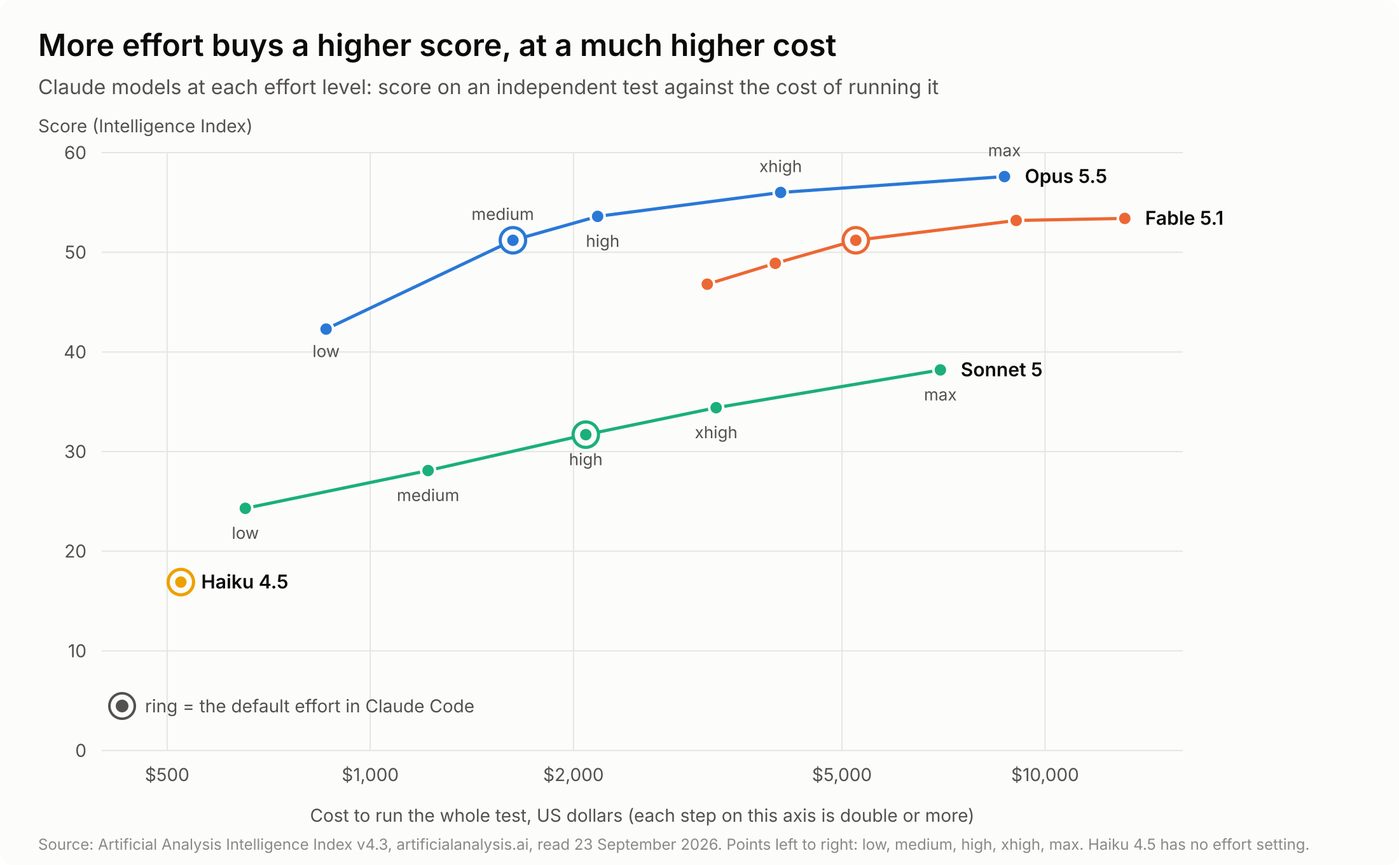
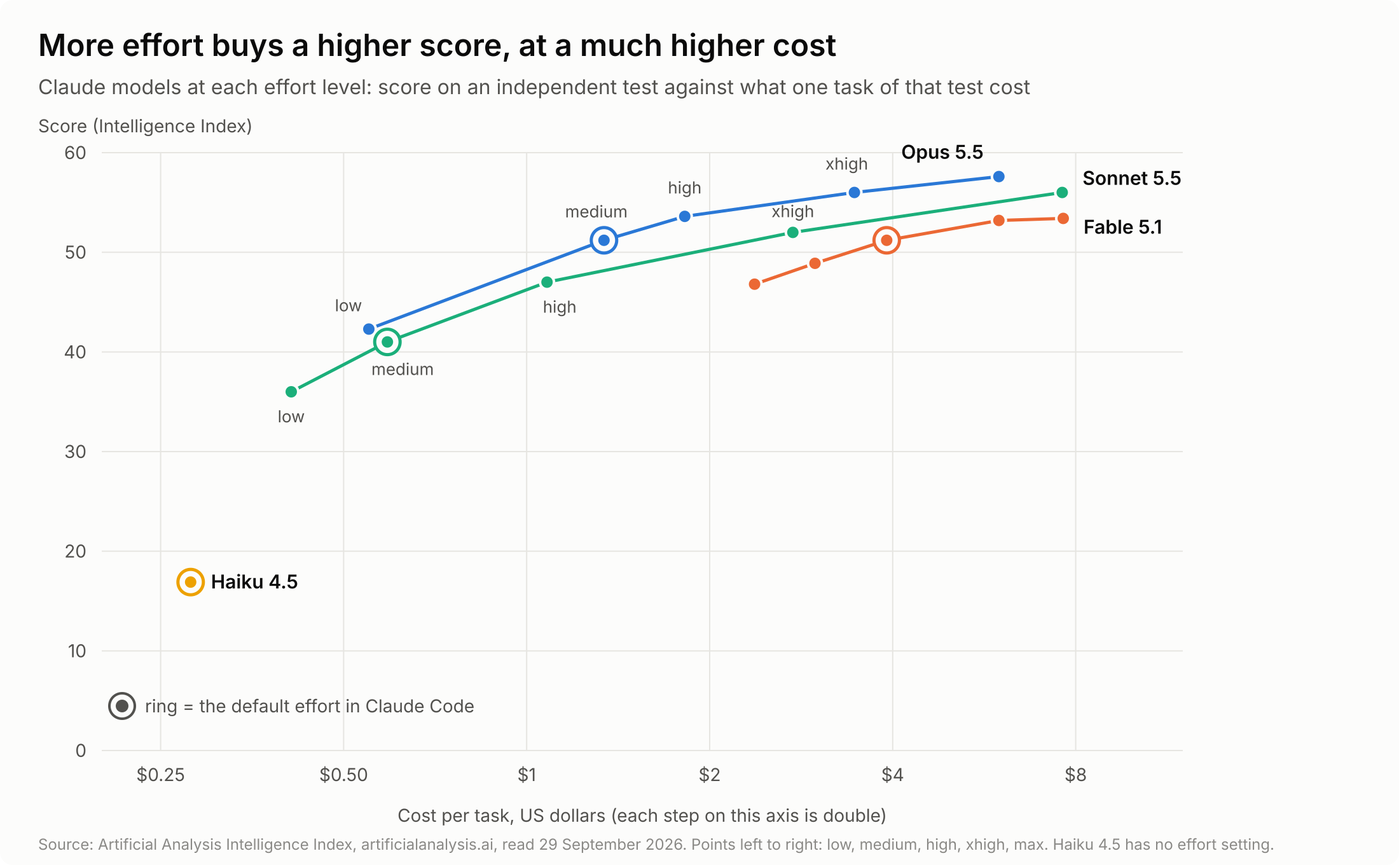
Wiki: Sonnet 5.5, cost-per-task charts, news dated lecture day
Sonnet 5.5 (28 Sep 2026) replaces Sonnet 5 in Claude model family,
Model, Effort and Benchmark. The effort table and both charts now use
Artificial Analysis cost per task. OpenAI row: GPT-6 Sol and Luna.
The news entry moves to 2026-09-29, the lecture 03 day, and leads with
the lecture. Rule: the news date is the lecture day.

Claude-Session: https://claude.ai/code/session_012w8N2fpaZJA1Vyv6PVjExa

diff --git a/wiki/concepts/Claude model family.md b/wiki/concepts/Claude model family.md
@@ -16,7 +16,7 @@ tags:
 
 Think of a consulting firm. The intern is quick and cheap and fine for routine work. The consultant handles most projects well. The senior partner takes the hard, long engagements. And there is one world expert the firm keeps on retainer for the problems nobody else can crack. Same firm, same way of working, very different depth, speed and price.
 
-Anthropic sells its [[Model|models]] in exactly those four tiers. Every tier reads text and images, writes text, and works as the brain of [[Claude Code]]. What changes is how deep it thinks, how fast it answers and what it costs. Facts below are as of 23 September 2026; names and prices move every few months, sources are at the bottom.
+Anthropic sells its [[Model|models]] in exactly those four tiers. Every tier reads text and images, writes text, and works as the brain of [[Claude Code]]. What changes is how deep it thinks, how fast it answers and what it costs. Facts below are as of 29 September 2026; names and prices move every few months, sources are at the bottom.
 
 ## The four tiers at a glance
 
@@ -24,7 +24,7 @@ Anthropic sells its [[Model|models]] in exactly those four tiers. Every tier rea
 | --- | --- | --- | --- | --- | --- |
 | **Claude Fable 5.1** | The most capable model you can get | Hours-long agent runs, deep research, analysis carried through to a finished document | Slowest | $10 / $50 | 1M tokens |
 | **Claude Opus 5.5** | The one to start with, and strong at hard work | Complex multi-step tasks, planning, large projects, anything with many files | Moderate | $4 / $20 | 1M tokens |
-| **Claude Sonnet 5** | Speed and intelligence in balance | Everyday work: drafting, summarising, data analysis, most agent tasks | Fast | $2 / $10 | 1M tokens |
+| **Claude Sonnet 5.5** | Speed and intelligence in balance | Everyday work: drafting, summarising, data analysis, most agent tasks | Fast | $2 / $10 | 1M tokens |
 | **Claude Haiku 4.5** | Fastest, near-frontier | Quick simple tasks, high volume, helper jobs inside bigger tasks | Fastest | $1 / $5 | 200K tokens |
 
 "Sees at once" is the [[Context window|context window]]. One million tokens is roughly 555,000 words, so the top three tiers can hold a shelf of documents in one conversation.
@@ -49,50 +49,57 @@ Two things are new. It is cheaper than Opus 5 was ($4 / $20 instead of $5 / $25)
 
 Not worth it for one-line questions or reformatting a table. Sonnet or Haiku do those as well and faster.
 
-### Claude Sonnet 5
+### Claude Sonnet 5.5
 
-"The best combination of speed and intelligence." Good for writing and editing, summarising documents, analysing a spreadsheet, running everyday agent tasks. It is fast, and half the price of Opus 5.5 per token. But the price per token is not the whole story: on the chart below, Opus 5.5 finishes the same test for about the same money, because it needs fewer tokens. Pick Sonnet when speed matters, or when you want to see if a lighter model is enough.
+Released on 28 September 2026, replacing Sonnet 5 (still available as an older model). Anthropic's line for it: "The best combination of speed and intelligence." And from the announcement: "a clear upgrade over Claude Sonnet 5, runs 30%+ faster, and costs up to 30% less for most work." Good for writing and editing, summarising documents, analysing a spreadsheet, running everyday agent tasks. Its default [[Effort|effort]] in Claude Code and the Claude apps is **medium**, like Opus 5.5.
+
+On most of Anthropic's own tests it comes close to Opus 5.5. On the independent test below, at the default effort, Opus 5.5 is 10 points higher (51 against 41) and costs about 2.3 times as much per task. Opus 5.5 reaches 56 at xhigh effort. Sonnet 5.5 reaches 56 only at max, and then costs more than twice as much per task. So: pick Sonnet 5.5 for everyday work, when speed matters, or to see if a lighter model is enough. For a hard task, on this test, moving up to Opus 5.5 was cheaper than turning Sonnet 5.5 up to max.
 
 ### Claude Haiku 4.5
 
-"The fastest model with near-frontier intelligence." Half the price of Sonnet and noticeably quicker, at the cost of some depth and a smaller context window. Good for short, clear tasks in bulk: classify these 500 emails, extract dates from these forms, answer a quick lookup. Claude Code also uses Haiku behind the scenes for helper jobs. You will rarely pick it by hand; in Claude Code you can with `/model haiku`.
+"The fastest model with near-frontier intelligence." Half the price of Sonnet 5.5 and noticeably quicker, at the cost of some depth and a smaller context window. Good for short, clear tasks in bulk: classify these 500 emails, extract dates from these forms, answer a quick lookup. Claude Code also uses Haiku behind the scenes for helper jobs. You will rarely pick it by hand; in Claude Code you can with `/model haiku`.
+
+A successor is coming: on 22 September Anthropic said "Claude Sonnet 5.5 and Claude Haiku 5.5 will follow in the coming weeks". Sonnet 5.5 has arrived; Haiku 5.5 is announced, not released yet. Anthropic lists Haiku 4.5 as retiring not sooner than 15 October 2026.
 
 ## Which one you get without choosing
 
 - **claude.ai and the desktop app**: every paid plan (Pro, Max, Team, Enterprise) can use Fable, Opus and Sonnet; pick in the model menu next to the prompt. Max does not unlock extra models, it buys more usage.
-- **Claude Code**: starts with Opus 5.5 at medium effort on Pro, Max, Team and Enterprise. Type the [[Slash command|slash command]] `/model` to see the picker, or `/model opus`, `/model sonnet`, `/model haiku`, `/model fable` to switch. `/model opusplan` uses Opus to plan and Sonnet to execute, a sensible money-saver.
+- **Claude Code**: starts with Opus 5.5 at medium effort on Pro, Max, Team and Enterprise. Type the [[Slash command|slash command]] `/model` to see the picker, or `/model opus`, `/model sonnet`, `/model haiku`, `/model fable` to switch. `/model sonnet` gives you Sonnet 5.5. `/model opusplan` uses Opus 5.5 to plan and Sonnet 5.5 to do the work, a sensible money-saver. The default stays Opus 5.5.
 - **Subscriptions do not bill per token.** The prices above matter if you pay for the [[API]] directly. On a subscription they still matter indirectly: a bigger model uses up your usage allowance faster.
 
 ## The second dial: effort
 
-Since 2026 the bigger models have an **[[Effort|effort]]** setting (low, medium, high, xhigh, max) that controls how long they think before answering. Anthropic's own advice: "tuning effort is often a better lever than switching models". In Claude Code, `/effort` opens a slider. Low for quick chores, the default for normal work (medium on Opus 5.5, high on the others), xhigh or max when the task is genuinely hard and you can wait.
+Since 2026 the bigger models have an **[[Effort|effort]]** setting (low, medium, high, xhigh, max) that controls how long they think before answering. Anthropic's own advice: "tuning effort is often a better lever than switching models". In Claude Code, `/effort` opens a slider. Low for quick chores, the default for normal work (medium on Opus 5.5 and Sonnet 5.5, high on Fable 5.1), xhigh or max when the task is genuinely hard and you can wait.
 
 ## Effort, price and score together
 
 Tier and effort are two dials, and each turn costs money. An independent [[Benchmark|benchmark]] shows what you get for it:
 
 ![[effort-score-cost-claude-2026-09.png]]
-*Score against cost for each Claude model and effort level. Chart: petr-ai-school, from Artificial Analysis data, 23 September 2026.*
+*Score against cost per task for each Claude model and effort level. Chart: petr-ai-school, from Artificial Analysis data, 29 September 2026.*
 
 And the price per token, the number on the price list, does not tell you the price of a job:
 
 ![[price-vs-task-cost-claude-2026-09.png]]
-*Left: list price. Right: what the same test cost at each model's default effort. Chart: petr-ai-school, from Anthropic and Artificial Analysis data, 23 September 2026.*
+*Left: list price. Right: what one task of the test cost when both models reach the same score (56). Chart: petr-ai-school, from Anthropic and Artificial Analysis data, 29 September 2026.*
+
+"Cost per task" is what one task of the test cost on average, in US dollars.
 
 | Model | low | medium | high | xhigh | max |
 | --- | --- | --- | --- | --- | --- |
-| Opus 5.5 | 42 / $860 | **51 / $1,627** | 54 / $2,172 | 56 / $4,057 | 58 / $8,708 |
-| Fable 5.1 | 47 / $3,158 | 49 / $3,983 | **51 / $5,242** | 53 / $9,063 | 53 / $13,129 |
-| Sonnet 5 | 24 / $653 | 28 / $1,218 | **32 / $2,086** | 34 / $3,255 | 38 / $6,998 |
-| Haiku 4.5 | **17 / $524** (no effort setting) | | | | |
+| Opus 5.5 | 42 / $0.55 | **51 / $1.34** | 54 / $1.82 | 56 / $3.46 | 58 / $5.98 |
+| Fable 5.1 | 47 / $2.37 | 49 / $2.98 | **51 / $3.91** | 53 / $5.98 | 53 / $7.63 |
+| Sonnet 5.5 | 36 / $0.41 | **41 / $0.59** | 47 / $1.08 | 52 / $2.74 | 56 / $7.60 |
+| Sonnet 5 (older) | 24 / $0.51 | 28 / $1.00 | **32 / $1.79** | 34 / $2.87 | 38 / $5.09 |
+| Haiku 4.5 | **17 / $0.28** (no effort setting) | | | | |
 
-*Score on the Artificial Analysis Intelligence Index / cost to run the whole test. Bold: the default in Claude Code.*
+*Score on the Artificial Analysis Intelligence Index / cost per task in US dollars, read 29 September 2026. Bold: the default in Claude Code.*
 
 Three things to take from it:
 
-- **Stay at the default** for normal work. On this chart, the default sits about where the line starts to flatten.
+- **Stay at the default** for normal work. For Opus 5.5 and Fable 5.1 the default sits about where the line starts to flatten.
 - **One or two steps up** when a task is hard. Max costs a lot more and buys little.
-- **Judge a model by the cost of the job, not the price per token.** A model that needs fewer tokens can be cheaper per job even when its price list says otherwise.
+- **Judge a model by the cost of the job, not the price per token.** Sonnet 5.5 is half the price of Opus 5.5 per token. But to reach 56 it needs max effort and costs $7.60 a task, while Opus 5.5 gets there at xhigh for $3.46.
 
 ## The same roles at other labs
 
@@ -101,19 +108,19 @@ Every lab sells the same ladder under different names. Same role does not mean i
 | Role | Anthropic | OpenAI | Google |
 | --- | --- | --- | --- |
 | Top model, restricted variant exists | Fable 5.1 ($10 / $50); Mythos 5.1 for vetted organisations | GPT-6 Astra (about $10 / $50); enterprise access first, off by default in many workspaces | Gemini 3 Deep Think (a slow "think longer" mode on the top plan) |
-| Flagship for hard work | Opus 5.5 ($4 / $20) | GPT-5.6 Sol (about $5 / $30) | Gemini 3.1 Pro ($2 / $12) |
-| Balanced everyday default | Sonnet 5 ($2 / $10) | GPT-5.6 Terra (about $2 / $12) | Gemini 3.8 Flash ($0.75 / $3.75 until end of 2026, then $1.50 / $7.50) |
-| Fast and cheap | Haiku 4.5 ($1 / $5) | GPT-5.6 Luna (about $0.20 / $1.20) | Gemini 3.5 Flash-Lite ($0.30 / $2.50) |
+| Flagship for hard work | Opus 5.5 ($4 / $20) | GPT-6 Sol (about $2 / $10), released 22 September 2026 | Gemini 3.1 Pro ($2 / $12) |
+| Balanced everyday default | Sonnet 5.5 ($2 / $10) | GPT-6 Sol covers this tier too; there is no GPT-6 Terra yet | Gemini 3.8 Flash ($0.75 / $3.75 until end of 2026, then $1.50 / $7.50) |
+| Fast and cheap | Haiku 4.5 ($1 / $5) | GPT-6 Luna (about $0.10 / $0.50) | Gemini 3.5 Flash-Lite ($0.30 / $2.50) |
 
 Three things to notice:
 
-- **OpenAI's naming flipped in 2026.** The number is the generation (5.6), the name is the tier (Sol, Terra, Luna). Same idea as Fable, Opus, Sonnet, Haiku.
+- **OpenAI's naming flipped in 2026.** The number is the generation (6), the name is the tier (Astra, Sol, Luna). Same idea as Fable, Opus, Sonnet, Haiku. OpenAI's prices here come from news reports, so they are marked "about".
 - **Google's Flash is not the small model.** Gemini 3.8 Flash is Google's recommended default and beats many larger models; Flash-Lite is the cheap one. Google is also the price leader.
 - **The top tier is gated everywhere.** Mythos and GPT-6 Astra both exist as "the same model with fewer safety limits" for approved organisations. What you and I can use is the filtered public version, and that is plenty.
 
 ## Rules of thumb
 
-1. Start with what your tool gives you by default. In Claude Code that is Opus 5.5 at medium effort, a good choice. Elsewhere it is usually the balanced tier (Terra, Flash). Move up when the result disappoints, not before.
+1. Start with what your tool gives you by default. In Claude Code that is Opus 5.5 at medium effort, a good choice. Elsewhere it is usually the balanced tier (Sol, Flash). Move up when the result disappoints, not before.
 2. Hard or long task, many files, decisions that cost money if wrong: go to the flagship (Opus, Sol, Pro).
 3. Something must be researched or produced end to end without you watching: Fable, and give it time.
 4. Hundreds of small identical jobs: the fast tier (Haiku, Luna, Flash-Lite).
@@ -124,10 +131,10 @@ Three things to notice:
 
 ## Sources
 
-- Anthropic: [Models overview](https://platform.claude.com/docs/en/models/overview), [Choosing the right model](https://platform.claude.com/docs/en/about-claude/models/choosing-a-model), [Claude Fable](https://www.anthropic.com/claude/fable), [Claude Code model configuration](https://code.claude.com/docs/en/model-config)
+- Anthropic: [Models overview](https://platform.claude.com/docs/en/models/overview), [Claude Sonnet 5.5](https://www.anthropic.com/claude-sonnet-5-5), [Choosing the right model](https://platform.claude.com/docs/en/about-claude/models/choosing-a-model), [Claude Fable](https://www.anthropic.com/claude/fable), [Claude Code model configuration](https://code.claude.com/docs/en/model-config)
 - Google: [Gemini models](https://ai.google.dev/gemini-api/docs/models), [Gemini API pricing](https://ai.google.dev/gemini-api/docs/pricing)
-- OpenAI: [GPT-5.6 Sol preview](https://openai.com/index/previewing-gpt-5-6-sol/), [API pricing](https://openai.com/api/pricing/); tier prices above via [DataCamp](https://www.datacamp.com/blog/gpt-5-6-sol-luna-terra) and [Vellum](https://www.vellum.ai/blog/gpt-5-6-sol-terra-luna-explained) after the July 2026 price cut
-- Independent ranking and cost per effort level: [Artificial Analysis Intelligence Index](https://artificialanalysis.ai/), read 23 September 2026
+- OpenAI: [GPT-6 Sol and GPT-6 Luna announcement](https://community.openai.com/t/announcing-gpt-6-sol-and-gpt-6-luna/1399925) (22 September 2026), [API pricing](https://openai.com/api/pricing/); the prices above via VentureBeat, a news site, because OpenAI's own page could not be read
+- Independent ranking and cost per task for each effort level: [Artificial Analysis Intelligence Index](https://artificialanalysis.ai/), read 29 September 2026
 
 ## Related
 

diff --git a/wiki/news.md b/wiki/news.md
@@ -12,32 +12,11 @@ tags:
 This wiki grows every week. So that you do not have to go looking, everything new is listed here, newest first. Read the top entry, follow the links in it, and you are up to date.
 
 > [!tip] Linking to one week
-> Every entry has its own address, made from its date. The one below is at `/news#2026-09-28`. That is the link in the weekly email, so you can go straight to the week you missed.
+> Every entry has its own address, made from its date. The one below is at `/news#2026-09-29`. That is the link in the weekly email, so you can go straight to the week you missed.
 
-## 2026-09-28
+## 2026-09-29
 
-**Reading the screen, working safely, and a new Opus.**
-
-- [[Working safely]] - the dos and don'ts: work on a copy, plan first, or say "do not change anything yet, just talk about it". Also what Esc Esc can and cannot undo. Read it before the homework: Esc Esc cannot undo moving files into folders.
-- [[Reading the Claude Code screen]] - the screen looks like programmer text, but you only need the plain sentences. Which lines to read, and when to press Esc.
-- [[Agent loop]] - gather context, take action, check the result, repeat. The diagram from the lecture, and where you fit in.
-- [[Compaction]] - what happens when a session gets too long, and why in normal work you should never get there.
-- [[Benchmark]] - how AI models are tested, the sites that show who leads right now, and how not to be fooled by a chart.
-
-**Changed:** Anthropic released Opus 5.5 on 22 September. It is now the model Claude Code starts with, at medium effort, and it is cheaper than Opus 5. [[Claude model family]] and [[Effort]] have the new facts and a chart of effort against cost against score. [[Chat Work and Code|Chat, Work and Code]] now says where Cowork runs: in Anthropic's cloud by default. [[Context window]] had one thing slightly wrong: when it is full, Claude Code does not simply drop old content. It clears old tool results and then summarises.
-
-**Coming next: connecting your systems, then making tasks repeat.**
-
-- [[Roadmap]] - weeks 03 and 04 are now fixed. Week 03 is about reaching the systems you use at work: connectors, command-line programs and APIs, and when to use which. Week 04 turns a task you do every week into one that repeats, and shows why a skill alone is not automation. The other topics are all still coming, in an order we will pick as we go.
-- Week 05 is now on the [[Roadmap]] too: running several agents at once. Instead of waiting for one agent, you hand out the work, let helpers do the side jobs, and check what comes back.
-
-**Ready for week 03: the ways into your systems.**
-
-- [[Connect Google Workspace]] - Gmail, Drive and Calendar two ways: the connector you switch on, and the `gws` command-line tool. Six Gmail jobs show where the connector stops: saving attachments into a folder, sending a file, changing 2,000 emails at once, setting your out-of-office.
-- [[Command-line program|Command-line tool]] - a program you run by typing one line instead of clicking. Claude reads its built-in manual and types the command for you.
-- [[API]] - a web address for programs, and why an API key is a password.
-
-**Lecture 03: Gearing up.**
+**Lecture 03: Gearing up, and a new Sonnet.**
 
 - [[03-gearing-up|Lecture 03: Gearing up]] - the slides, what we covered, your turn and the homework. What a tool is, and every way to give Claude more.
 - [[Tool]] - rewritten. A tool is a button the harness gives the model. How one tool call works, step by step, and the names you see on the ⏺ lines.
@@ -52,9 +31,30 @@ This wiki grows every week. So that you do not have to go looking, everything ne
 
 **Also, for lecture 03:** the Command-line tool page is now called [[Command-line program]], because in this course a tool is a button the harness gives the model, and a program is something Claude runs with one of those buttons. It also lists a few little programs that do big jobs. [[Working safely]] has a new part on connecting things: keys, who made a connector, and emails that contain orders for Claude. [[Reading the Claude Code screen]] and the [[Claude Code cheat sheet]] list the tool names on the ⏺ lines, including `PowerShell` on Windows. [[Connect Google Workspace]] now says why `gws` works only in Code. [[Sandbox]] now explains how a sandbox works inside. [[Chat Work and Code|Chat, Work and Code]] notes that Chat and Cowork are becoming one Claude.
 
+**From lecture 02: reading the screen and working safely.**
+
+- [[Working safely]] - the dos and don'ts: work on a copy, plan first, or say "do not change anything yet, just talk about it". Also what Esc Esc can and cannot undo. Read it before the homework: Esc Esc cannot undo moving files into folders.
+- [[Reading the Claude Code screen]] - the screen looks like programmer text, but you only need the plain sentences. Which lines to read, and when to press Esc.
+- [[Agent loop]] - gather context, take action, check the result, repeat. The diagram from the lecture, and where you fit in.
+- [[Compaction]] - what happens when a session gets too long, and why in normal work you should never get there.
+- [[Benchmark]] - how AI models are tested, the sites that show who leads right now, and how not to be fooled by a chart.
+
+**Changed:** Anthropic released Sonnet 5.5 on 28 September. It costs the same per token as Sonnet 5, is faster, and comes close to Opus 5.5 on most tests. `/model sonnet` now picks it. Before that, Anthropic released Opus 5.5 on 22 September. It is now the model Claude Code starts with, at medium effort, and it is cheaper than Opus 5. [[Claude model family]] and [[Effort]] have the new facts, and the charts now show what one task costs at each effort level. [[Chat Work and Code|Chat, Work and Code]] now says where Cowork runs: in Anthropic's cloud by default. [[Context window]] had one thing slightly wrong: when it is full, Claude Code does not simply drop old content. It clears old tool results and then summarises.
+
+**Coming next: connecting your systems, then making tasks repeat.**
+
+- [[Roadmap]] - weeks 03 and 04 are now fixed. Week 03 is about reaching the systems you use at work: connectors, command-line programs and APIs, and when to use which. Week 04 turns a task you do every week into one that repeats, and shows why a skill alone is not automation. The other topics are all still coming, in an order we will pick as we go.
+- Week 05 is now on the [[Roadmap]] too: running several agents at once. Instead of waiting for one agent, you hand out the work, let helpers do the side jobs, and check what comes back.
+
+**Ready for week 03: the ways into your systems.**
+
+- [[Connect Google Workspace]] - Gmail, Drive and Calendar two ways: the connector you switch on, and the `gws` command-line program. Six Gmail jobs show where the connector stops: saving attachments into a folder, sending a file, changing 2,000 emails at once, setting your out-of-office.
+- [[Command-line program]] - a program you run by typing one line instead of clicking. Claude reads its built-in manual and types the command for you.
+- [[API]] - a web address for programs, and why an API key is a password.
+
 **Also:** [[Connector]] had two things out of date. Claude Code does not describe every connected tool to the model in full at the start. It sees only the names and looks up the rest when needed. What still fills your context is what a connector sends back. And not every web connector is Anthropic's own: the Gmail, Calendar and Drive ones are made by Google.
 
-Before the homework, read [[Working safely]]. If you wonder which model to use, look at the chart on [[Effort]]. For week 03, start with [[Connect Google Workspace]]. After lecture 03, read [[Tool]] and [[Chat Work and Code|Chat, Work and Code]] first.
+Start with the [[03-gearing-up|lecture 03 page]], then read [[Tool]] and [[Chat Work and Code|Chat, Work and Code]]. Before the homework, read [[Working safely]]. If you wonder which model to use, look at the chart on [[Effort]].
 
 ## 2026-09-21
 

diff --git a/wiki/concepts/Effort.md b/wiki/concepts/Effort.md
@@ -25,11 +25,11 @@ Thinking costs [[Token|tokens]], so higher effort uses more of your [[Usage limi
 An independent [[Benchmark|benchmark]] shows it well. Each line is one model, each point one effort level, from low on the left to max on the right:
 
 ![[effort-score-cost-claude-2026-09.png]]
-*Score against cost for each Claude model and effort level. Chart: petr-ai-school, from Artificial Analysis data, 23 September 2026.*
+*Score against cost per task for each Claude model and effort level. Chart: petr-ai-school, from Artificial Analysis data, 29 September 2026.*
 
-- **Each step up costs more, up to about twice as much as the step before.** On Opus 5.5, max costs more than five times what medium costs.
-- **The score rises less and less.** From low to medium is a big jump. From xhigh to max is a small one, and on some tests max is even a little worse than xhigh.
-- **A better model at lower effort often beats a weaker model at max.** Opus 5.5 at low effort scores higher than Sonnet 5 at max, for about an eighth of the cost.
+- **Each step up costs more, often about twice as much as the step before.** On Opus 5.5, one task at max costs more than four times what it costs at medium.
+- **The score rises less and less.** On Opus 5.5, from low to medium is a big jump and from xhigh to max a small one. Fable 5.1 hardly gains anything from xhigh to max, and on some tests max is even a little worse than xhigh.
+- **A stronger model at lower effort often matches a lighter model at max, for less.** Opus 5.5 at xhigh scores the same as Sonnet 5.5 at max (56), for less than half the cost per task.
 
 So: stay at the default, go one or two steps up when a task is hard, and use max only when being right matters more than time and allowance.
 

diff --git a/wiki/concepts/Benchmark.md b/wiki/concepts/Benchmark.md
@@ -37,13 +37,13 @@ The [[Model#Who makes them|snapshot on the Model page]] is one of these charts, 
 A benchmark gets really useful when it shows score and cost for each [[Effort|effort]] level. Here is the independent Artificial Analysis test for the current [[Claude model family|Claude models]]:
 
 ![[effort-score-cost-claude-2026-09.png]]
-*Score against cost for each Claude model and effort level. Chart: petr-ai-school, from Artificial Analysis data, 23 September 2026.*
+*Score against cost per task for each Claude model and effort level. Chart: petr-ai-school, from Artificial Analysis data, 29 September 2026.*
 
 What you can read from it:
 
-- **More effort, more score, much more cost.** Opus 5.5 from medium to max: the score goes from 51 to 58, the cost goes up more than five times.
+- **More effort, more score, much more cost.** Opus 5.5 from medium to max: the score goes from 51 to 58, the cost per task goes up more than four times.
 - **The first steps pay, the last ones rarely do.** From low to medium is a big jump. From xhigh to max is small and expensive.
-- **The biggest model is not always the best one.** Opus 5.5 at medium effort scores the same as the bigger Fable 5.1 at high, for less than a third of the cost. At max effort Opus 5.5 is ahead. Only a benchmark shows you that.
+- **The biggest model is not always the best one.** Opus 5.5 at medium effort scores the same as the bigger Fable 5.1 at high, for about a third of the cost. At max effort Opus 5.5 is ahead. Only a benchmark shows you that.
 
 Here is a similar chart from a vendor. Anthropic published this one for Opus 5 in July 2026, on the DeepSWE coding test:
 

diff --git a/.claude/rules/wiki.md b/.claude/rules/wiki.md
@@ -46,6 +46,7 @@ Keep blank lines around raw HTML blocks. After adding a new deck, restart `npm r
 `wiki/news.md` is the changelog students read. One entry per week that something shipped, newest first, directly under the intro.
 
 - The heading is the bare ISO date, `## 2026-09-21`, and nothing else. That keeps the anchor predictable (`/news#2026-09-21`) so the weekly reminder email can link straight to it. The headline goes on the next line in bold.
+- The date is the day of that week's lecture: Petr sends the news email on lecture day, with the new lecture in it. Work shipped earlier in the week goes into the upcoming lecture's entry, and the entry's date moves to the lecture day if it was started earlier.
 - Then bullets, one per new or substantially changed page, each a wikilink plus one line on why a student would care. Group small edits into a closing "Also:" paragraph.
 - Close the entry with a sentence naming the one or two pages to read first.
 - Never rewrite a published entry; past weeks are a record of what students were told.

diff --git a/wiki/concepts/Model.md b/wiki/concepts/Model.md
@@ -21,7 +21,7 @@ A handful of labs build the **frontier** models, the most capable ones at any mo
 
 | Lab | Model family | Note |
 | --- | --- | --- |
-| Anthropic | Claude (Fable 5.1, Opus 5.5, Sonnet 5, Haiku 4.5) | What we use in this course |
+| Anthropic | Claude (Fable 5.1, Opus 5.5, Sonnet 5.5, Haiku 4.5) | What we use in this course |
 | OpenAI | GPT (GPT-6 Astra, GPT-5.6) | Powers ChatGPT |
 | Google | Gemini | Built into Google's products |
 | Meta | Muse | |
